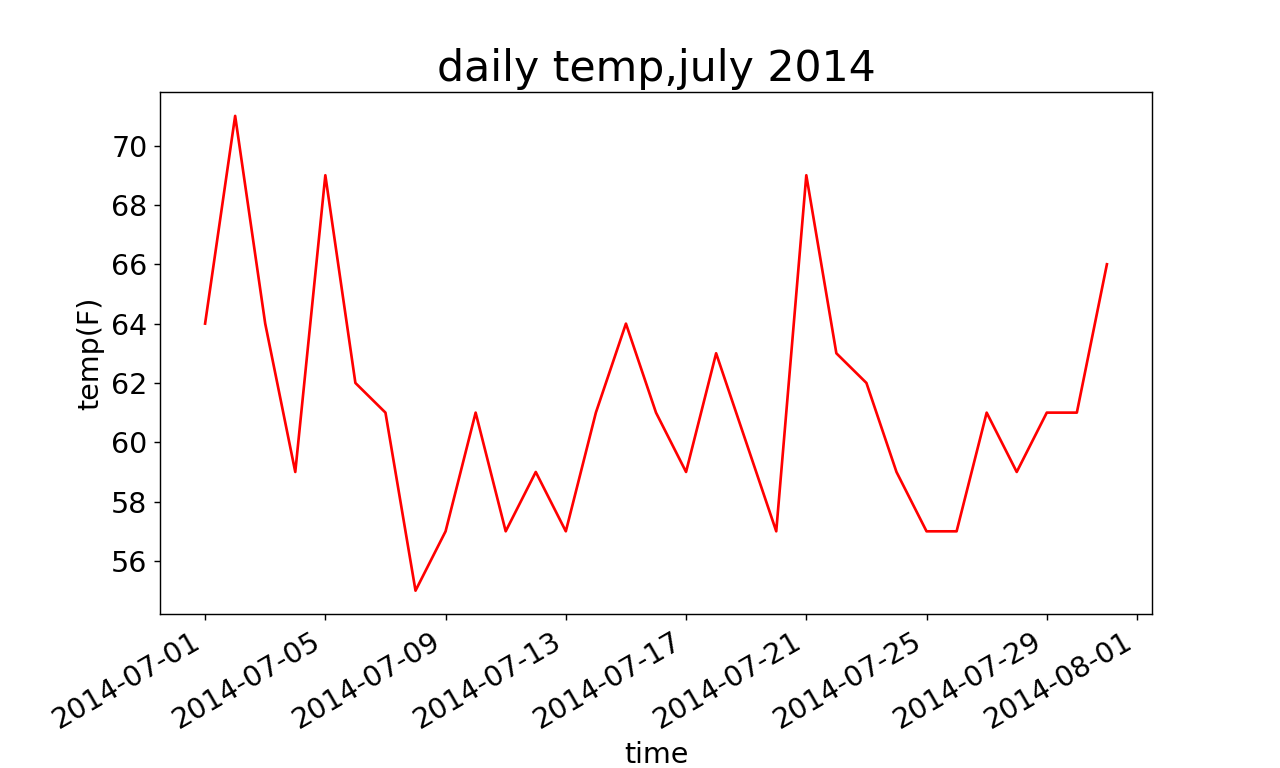
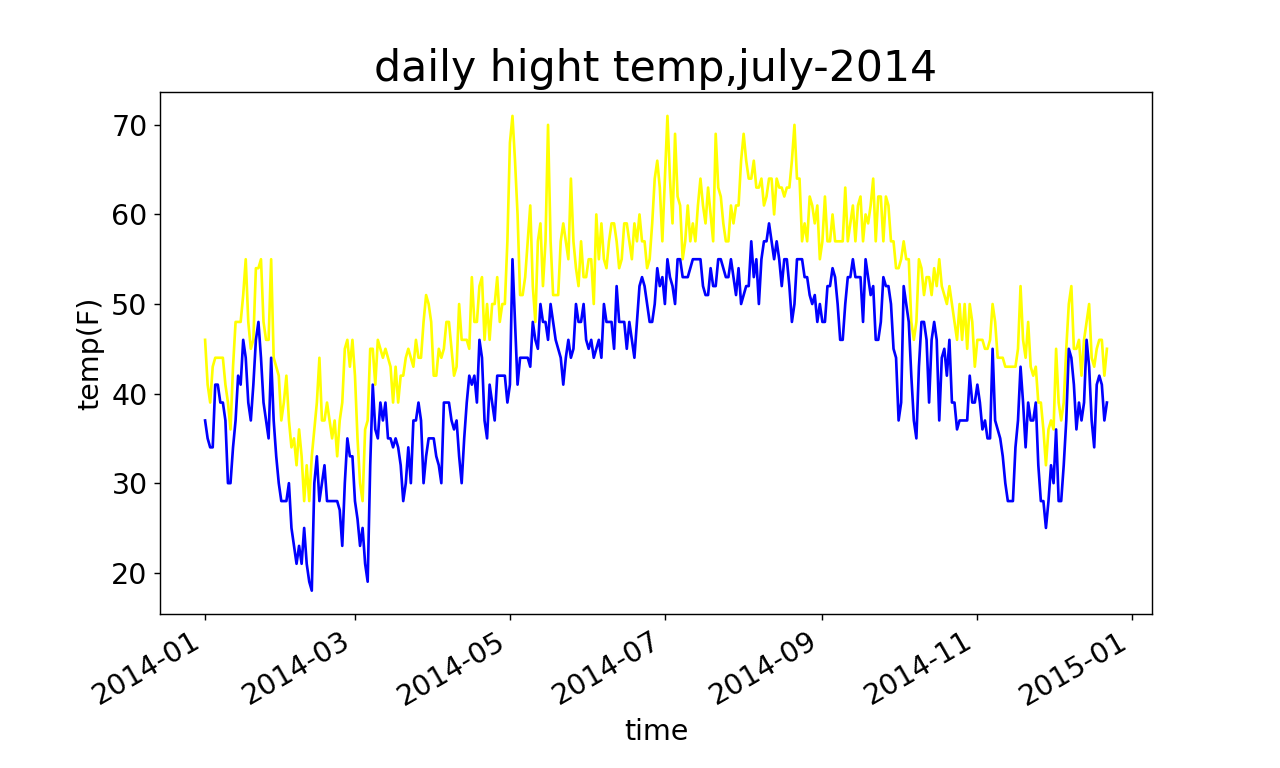
python code的explme

diff --git a/day14/highs_lows.py b/day14/highs_lows.py
@@ -1,24 +1,28 @@
 import csv
 from datetime import datetime
 from matplotlib import pyplot as l
-filename = 'sitka_weather_07-2014.csv'
+filename = 'sitka_weather_2014.csv'
 with open(filename) as f:
      reader = csv.reader(f)
      header_row =next(reader)
      #
-     dates,highs=[],[]
+     dates,highs,lows =[],[],[]
      #highs = []
      for row in reader:
          cd = datetime.strptime(row[0],"%Y-%m-%d")
          dates.append(cd)
          high =int(row[1])
          highs.append(high)
+         low =int(row[3])
+         lows.append(low)
 
      print(highs)
 
      fig = l.figure(dpi=128,figsize=(10,6))
-     l.plot(dates,highs,c='red')
-     l.title("daily temp,july 2014",fontsize=24)
+     l.plot(dates,highs,c='yellow')
+     l.plot(dates,lows,c='blue')
+     l.fill_between(dates,highs,lows,facecolor ='black',alpha=0.1)
+     l.title("daily hight temp,july-2014",fontsize=24)
      l.xlabel('time',fontsize=16)
      fig.autofmt_xdate()
      l.ylabel('temp(F)',fontsize=16)
